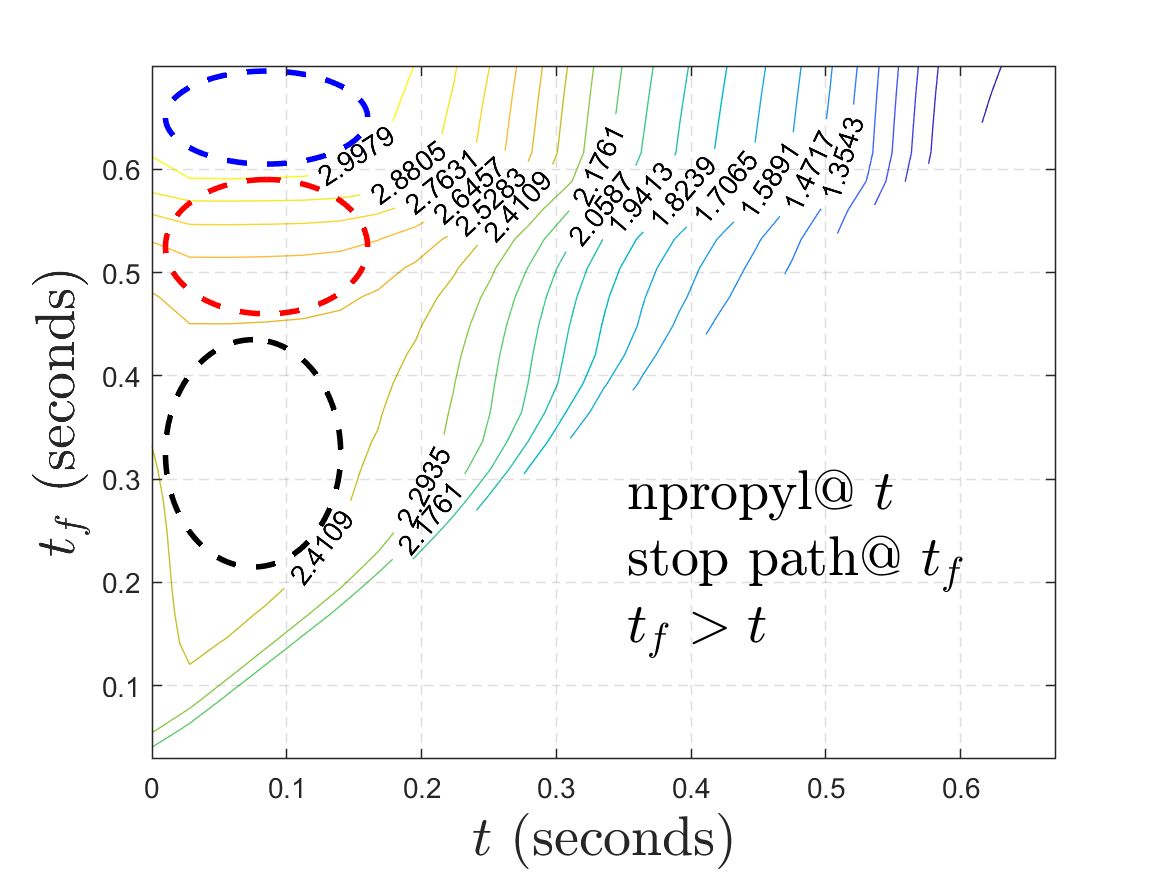
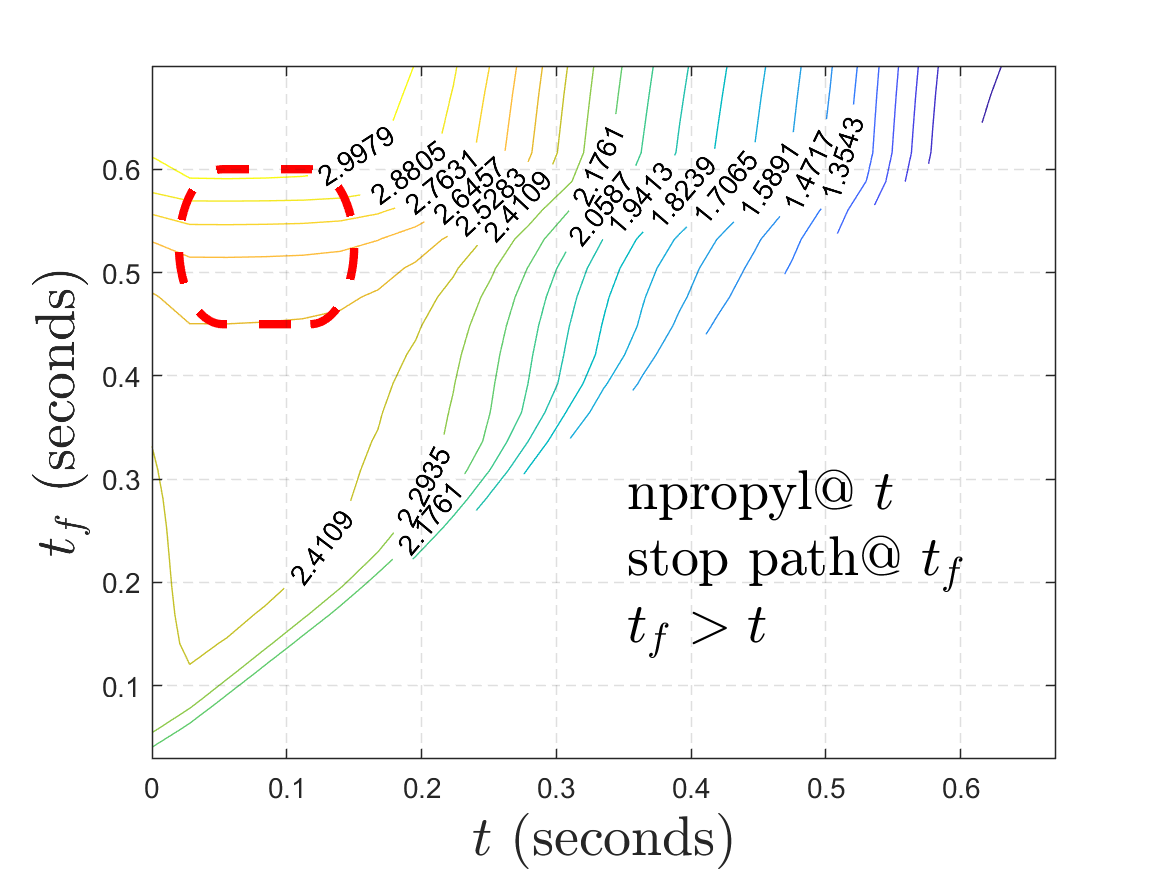
minor

diff --git a/theory/misc/Merchant_f/2d_f/npropyl/two_dim_Merchant_f_v2.m b/theory/misc/Merchant_f/2d_f/npropyl/two_dim_Merchant_f_v2.m
@@ -46,20 +46,27 @@ fig = figure();
 contour(X,Y,Z, 20, 'ShowText', 'on');
 hold on;
 
-% draw circle to emphase
-he1 = ellipse(0.045,0.075,pi/2,0.085,0.65);
-set(he1, 'LineStyle', '--', 'color', 'b', 'LineWidth', 2.0);
-hold on;
+% % draw circle to emphase
+% he1 = ellipse(0.045,0.075,pi/2,0.085,0.65);
+% set(he1, 'LineStyle', '--', 'color', 'b', 'LineWidth', 2.0);
+% hold on;
 
 % draw circle to emphase
-he2 = ellipse(0.065,0.075,pi/2,0.085,0.525);
-set(he2, 'LineStyle', '--', 'color', 'r', 'LineWidth', 2.0);
+% he2 = ellipse(0.065,0.075,pi/2,0.085,0.525);
+% set(he2, 'LineStyle', '--', 'color', 'r', 'LineWidth', 2.0);
+% hold on;
+center_x2 = 0.085; center_y2 = 0.525; delta_x2 = 0.065*2; delta_y2 = 0.075*2;
+r2=rectangle('Position',[center_x2 - delta_x2/2, center_y2 - delta_y2/2, delta_x2, delta_y2]);
+r2.EdgeColor = 'r';
+r2.LineWidth = 3;
+r2.LineStyle = '--';
+r2.Curvature = [0.5,1];
 hold on;
 
-% draw circle to emphase
-he3 = ellipse(0.11,0.065,pi/2,0.075,0.325);
-set(he3, 'LineStyle', '--', 'color', 'k', 'LineWidth', 2.0);
-hold on;
+% % draw circle to emphase
+% he3 = ellipse(0.11,0.065,pi/2,0.075,0.325);
+% set(he3, 'LineStyle', '--', 'color', 'k', 'LineWidth', 2.0);
+% hold on;
 
 axis tight;
 hold on;

diff --git a/theory/misc/Merchant_f/2d_f/CH2O/two_dim_Merchant_f_v2.m b/theory/misc/Merchant_f/2d_f/CH2O/two_dim_Merchant_f_v2.m
@@ -52,12 +52,18 @@ hold on;
 % he1 = ellipse(0.045,0.075,pi/2,0.085,0.65);
 % set(he1, 'LineStyle', '--', 'color', 'b', 'LineWidth', 2.0);
 % hold on;
-% 
-% % draw circle to emphase
+
+% draw circle to emphase
 % he2 = ellipse(0.065,0.075,pi/2,0.085,0.525);
 % set(he2, 'LineStyle', '--', 'color', 'r', 'LineWidth', 2.0);
-% hold on;
-% 
+center_x2 = 0.20; center_y2 = 0.52; delta_x2 = 0.35; delta_y2 = 0.175;
+r2=rectangle('Position',[center_x2 - delta_x2/2, center_y2 - delta_y2/2, delta_x2, delta_y2]);
+r2.EdgeColor = 'r';
+r2.LineWidth = 3;
+r2.LineStyle = '--';
+r2.Curvature = [0.5,1];
+hold on;
+
 % % draw circle to emphase
 % he3 = ellipse(0.11,0.065,pi/2,0.075,0.325);
 % set(he3, 'LineStyle', '--', 'color', 'k', 'LineWidth', 2.0);
